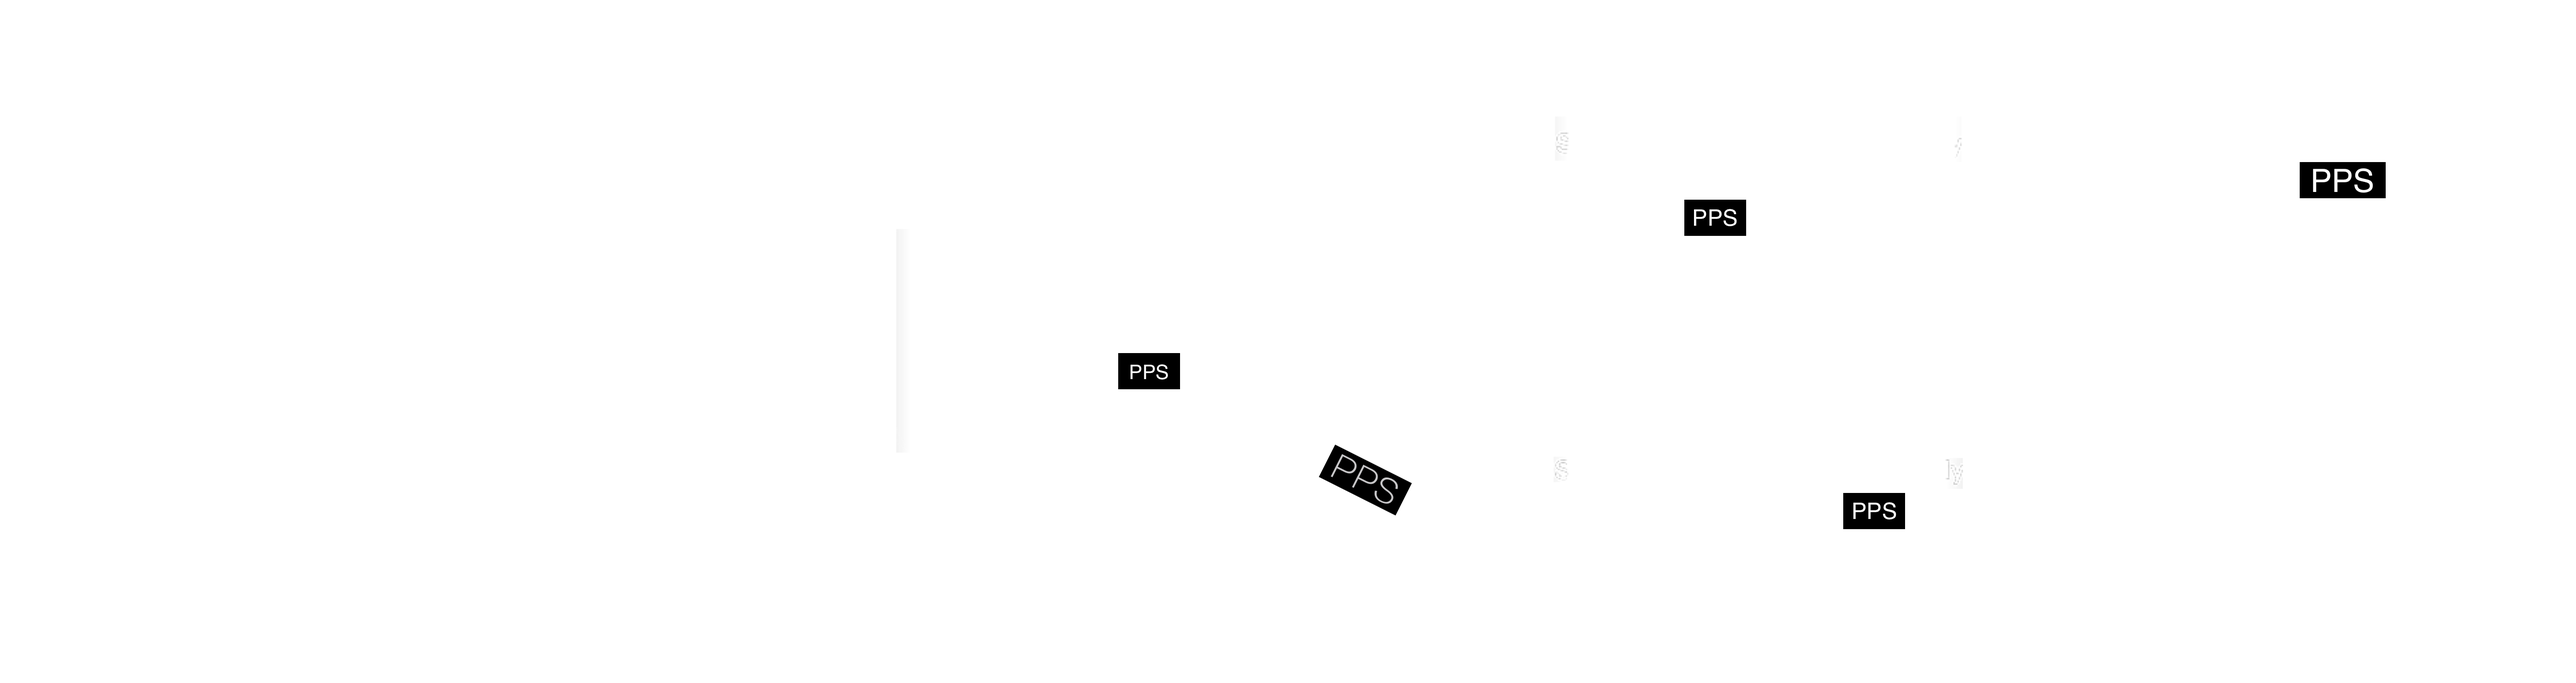
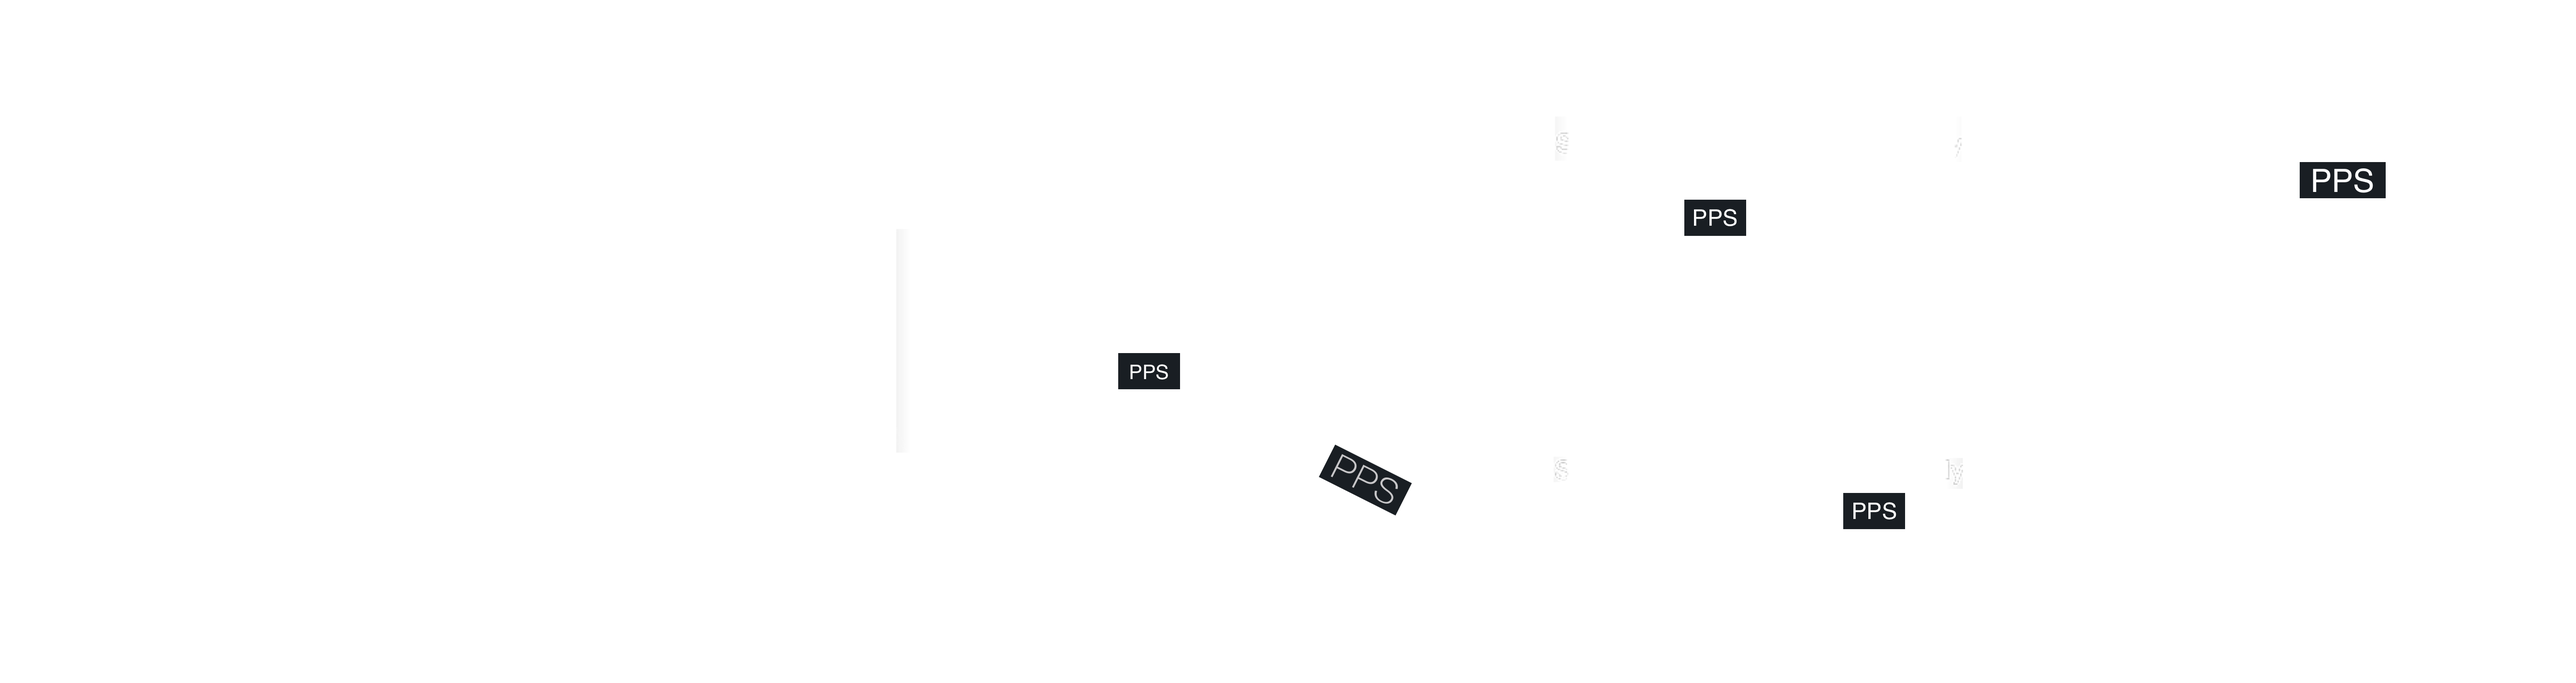
image fixed

diff --git a/index.html b/index.html
@@ -275,7 +275,7 @@
 
 <!-- Token Distribution pie chart -->
 
-<div style="background-color: #0D0D0D;">
+<div style="background-color: #15181E;">
 	<div class="container">
 		<br><br><br>
 		<h2 align="middle">Token Distribution</h2>
@@ -301,7 +301,7 @@
 			</div>
 			<div class="col-md-2"></div>
 
-			<img class="img-responsive center" src="./resource/PPStrading1.png" width="800">
+			<img class="img-responsive center" src="./resource/PPStrading.png" width="800">
 
 		</div>
 

diff --git a/carousel.css b/carousel.css
@@ -198,8 +198,6 @@ body {
   text-align: center;
   font-size: 30px;
   color:yellowgreen;
-  font-family: "Times New Roman", Times, serif;
-  font-style: oblique;
 }
 
 /* team img*/
